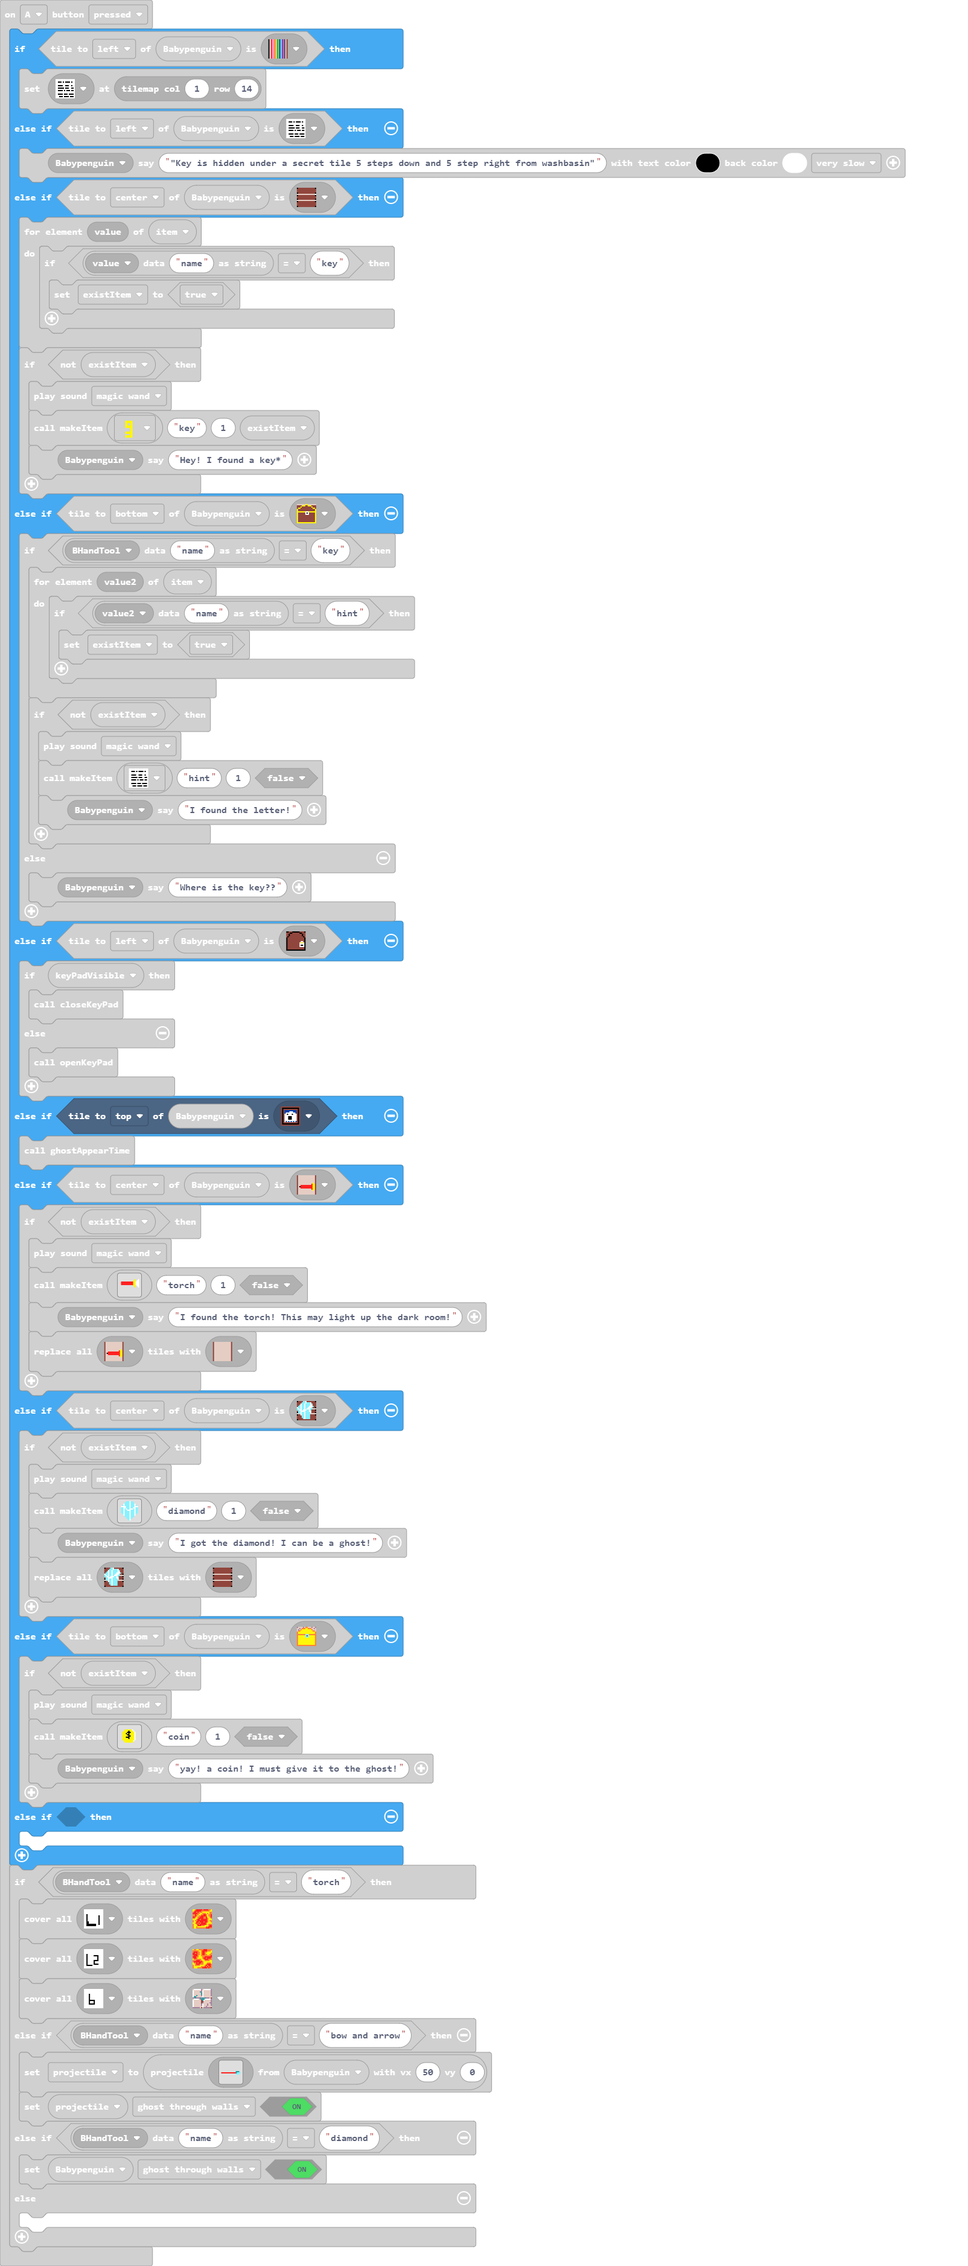
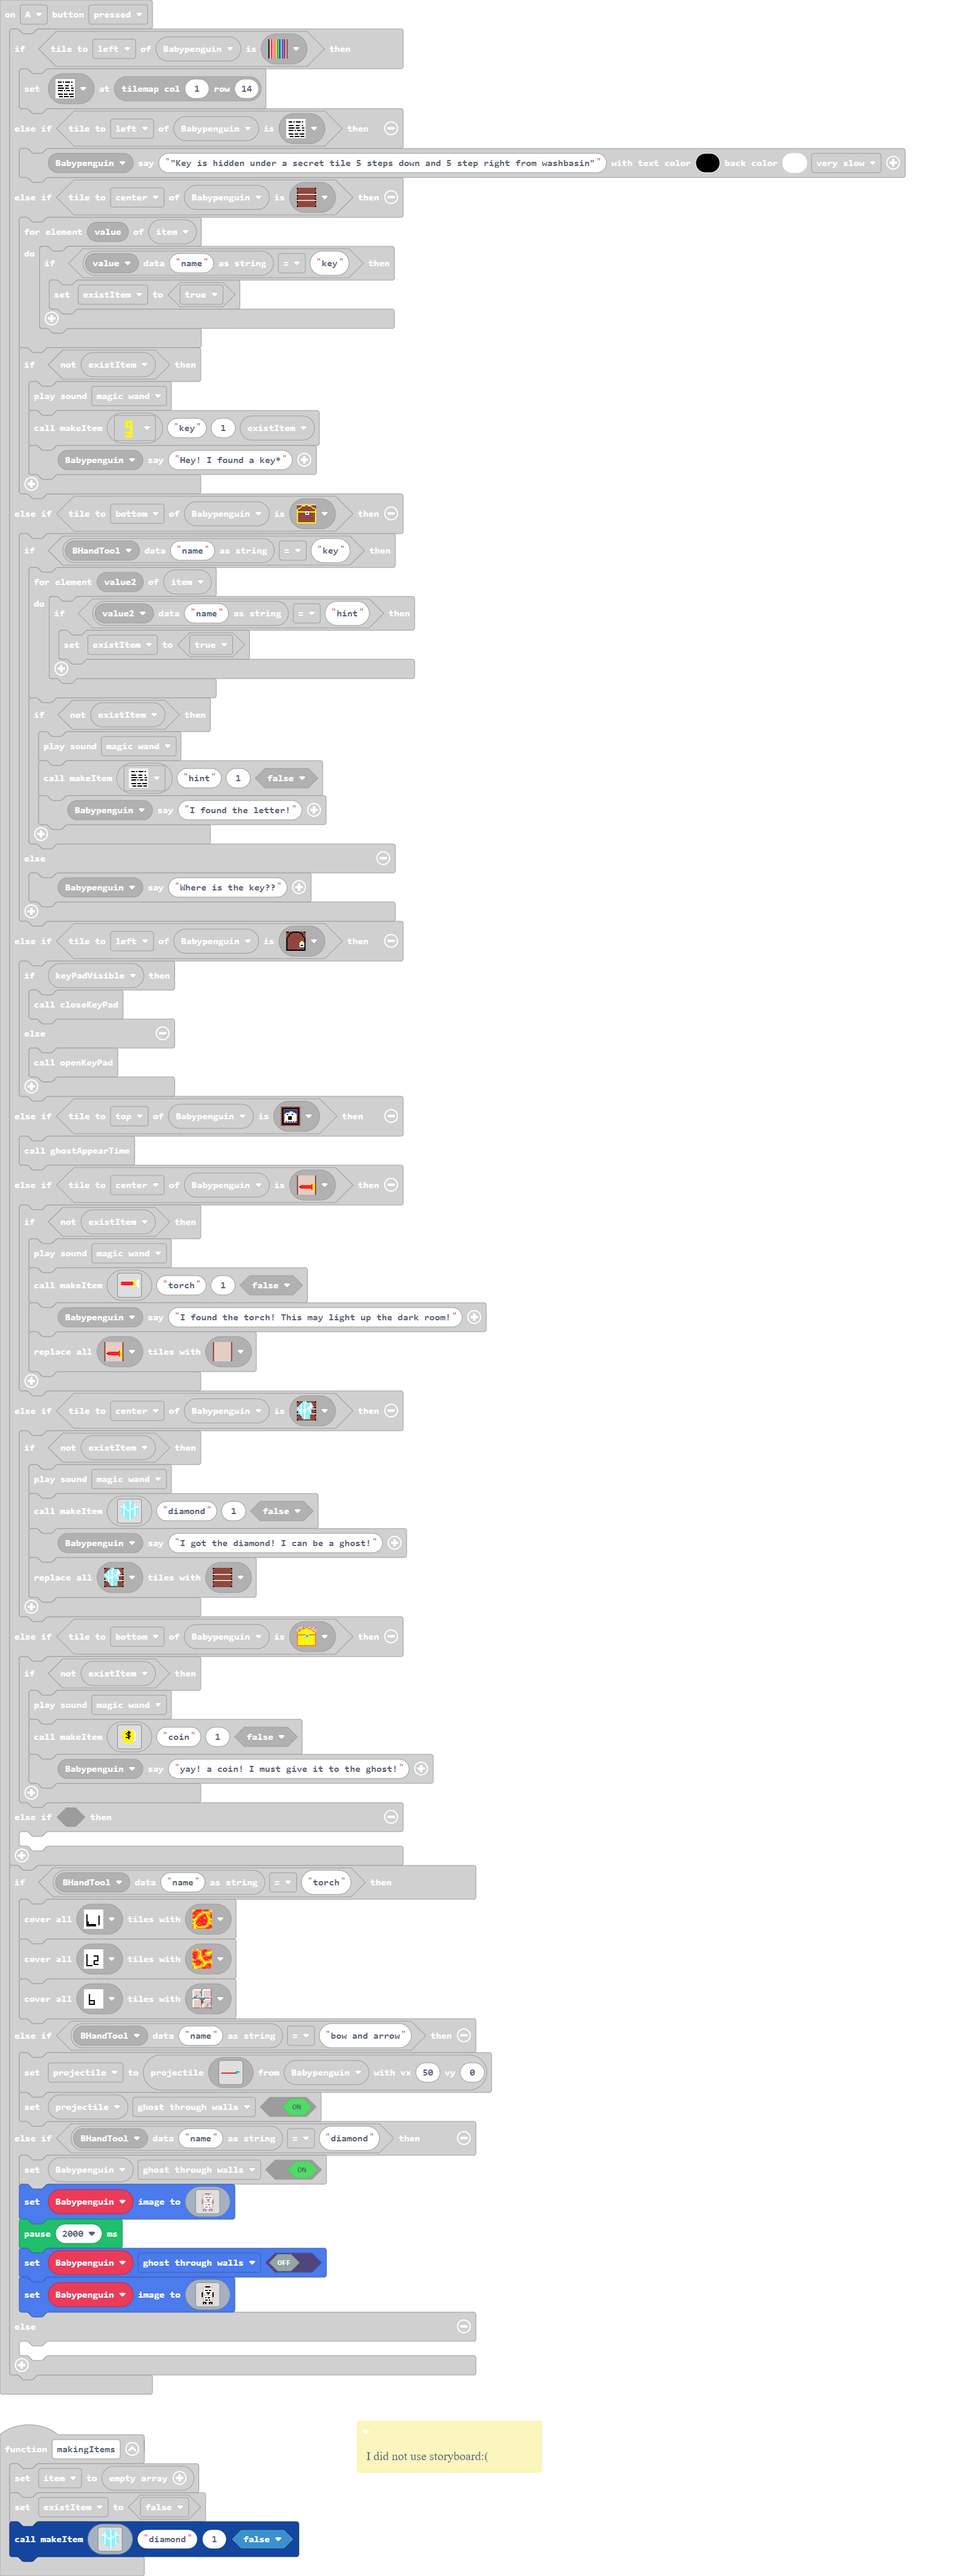
Update main.blocks, main.ts

Changed region(s): [[0.0, 0.0, 0.9352, 1.0]]

diff --git a/main.ts b/main.ts
@@ -2,6 +2,9 @@ namespace SpriteKind {
     export const tools = SpriteKind.create()
     export const NPC = SpriteKind.create()
 }
+/**
+ * I did not use storyboard:(
+ */
 sprites.onOverlap(SpriteKind.Player, SpriteKind.NPC, function (sprite, otherSprite) {
     _2ndghostAppearTime()
 })
@@ -179,6 +182,44 @@ controller.A.onEvent(ControllerButtonEvent.Pressed, function () {
         projectile.setFlag(SpriteFlag.GhostThroughWalls, true)
     } else if (sprites.readDataString(BHandTool, "name") == "diamond") {
         Babypenguin.setFlag(SpriteFlag.GhostThroughWalls, true)
+        Babypenguin.setImage(img`
+            . . . . . . . . . . . . . . . . 
+            . . . . d d b b b b d d . . . . 
+            . . . d d d d d d d d d d . . . 
+            . . . d d 1 1 1 d 1 1 1 d . . . 
+            . . . d d 1 b b 1 b b 1 d . . . 
+            . . . d d 1 1 1 1 1 1 1 d . . . 
+            . . . b d 1 1 b b b 1 1 b . . . 
+            . . . b d d 1 1 b 1 1 d b . . . 
+            . . . b d d d d d d d d b . . . 
+            . . . b d 1 1 1 1 1 1 d b . . . 
+            . . . d d 1 b 1 b b 1 d d . . . 
+            . . . d d 1 1 1 1 1 1 d d . . . 
+            . . . d d 1 b b 1 b 1 d d . . . 
+            . . . . d d 1 1 1 1 d d . . . . 
+            . . . . b b b . . b b b . . . . 
+            . . . . b . b . . b . b . . . . 
+            `)
+        pause(2000)
+        Babypenguin.setFlag(SpriteFlag.GhostThroughWalls, false)
+        Babypenguin.setImage(img`
+            . . . . . . . . . . . . . . . . 
+            . . . . d d f f f f d d . . . . 
+            . . . d d d d d d d d d d . . . 
+            . . . d d 1 1 1 d 1 1 1 d . . . 
+            . . . d d 1 f f 1 f f 1 d . . . 
+            . . . d d 1 1 1 1 1 1 1 d . . . 
+            . . . f d 1 1 f f f 1 1 f . . . 
+            . . . f d d 1 1 f 1 1 d f . . . 
+            . . . f d d d d d d d d f . . . 
+            . . . f d 1 1 1 1 1 1 d f . . . 
+            . . . d d 1 f 1 f f 1 d d . . . 
+            . . . d d 1 1 1 1 1 1 d d . . . 
+            . . . d d 1 f f 1 f 1 d d . . . 
+            . . . . d d 1 1 1 1 d d . . . . 
+            . . . . f f f . . f f f . . . . 
+            . . . . f . f . . f . f . . . . 
+            `)
     } else {
     	
     }
@@ -197,6 +238,24 @@ function makeItem (image2: Image, name: string, amount: number, dontAddToInvento
 function makingItems () {
     item = []
     existItem = false
+    makeItem(img`
+        . . . . . 9 9 9 1 9 9 . . . . . 
+        . . . . 9 9 9 9 1 9 9 9 . . . . 
+        . . . 1 9 9 9 9 1 9 9 9 1 . . . 
+        . . 9 1 9 9 9 9 1 9 9 9 1 9 . . 
+        . 1 1 1 1 9 9 9 1 9 9 9 1 1 1 . 
+        . 9 9 1 1 9 9 9 1 9 9 1 1 9 9 . 
+        . 9 9 1 9 1 9 9 1 1 1 9 1 9 9 . 
+        . 9 9 1 9 9 1 1 1 9 9 9 1 9 9 . 
+        . 9 9 1 9 9 9 9 1 9 9 9 1 9 9 . 
+        . 9 9 1 9 9 9 9 1 9 9 9 1 9 9 . 
+        . . 9 1 9 9 9 9 1 9 9 9 1 9 . . 
+        . . . 1 9 9 9 9 1 9 9 9 1 . . . 
+        . . . . 9 9 9 9 1 9 9 9 . . . . 
+        . . . . . 9 9 9 1 9 9 . . . . . 
+        . . . . . . 9 9 1 9 . . . . . . 
+        . . . . . . . 9 1 . . . . . . . 
+        `, "diamond", 1, false)
 }
 function intro () {
     Bhandtoolon = false
